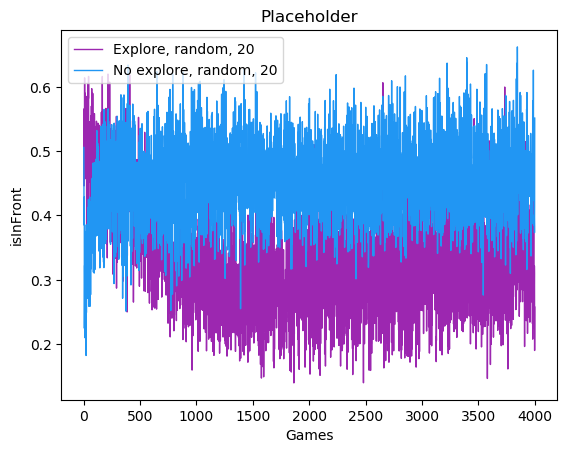
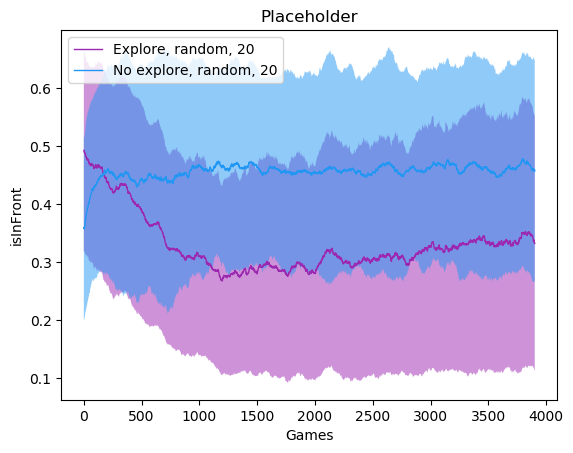
Fix

diff --git a/Analyse/analyses.py b/Analyse/analyses.py
@@ -16,6 +16,8 @@ def DataFinder(directory):
     by_row_index = df_concat.groupby(df_concat.index)
     mean = by_row_index.mean()
     sd = by_row_index.std()
+    mean.columns = ['GameN', 'gameLength', 'gameElo', 'minBase', 'dinBase', 'meandistMine', 'meandistDine', 'isInFront', 'carryEnimy', 'carryAlly']
+    sd.columns = ['GameN', 'gameLength', 'gameElo', 'minBase', 'dinBase', 'meandistMine', 'meandistDine', 'isInFront', 'carryEnimy', 'carryAlly']
     return mean, sd
 
 
@@ -40,13 +42,20 @@ class AnalysePlot():
         self.plt.xlabel('Games')
         self.plt.ylabel(feature)
         self.savepos = savepos
+        self.plt.n = 0
 
-        def varPlot(self, mean, sd, name, color, meanVar=False):
+        def varPlot(self, mean, sd=None, name='Placeholder', color=None, meanVar=False, useSD=True, runningMean=1):
+            mean = np.convolve(mean, np.ones((runningMean,)) / runningMean, mode='valid')
+            sd = np.convolve(sd, np.ones((runningMean,)) / runningMean, mode='valid')
             x = np.arange(1, len(mean) + 1)
+            if color is None:
+                color = colors[self.n]
+                self.n += 1
             self.plot(x, mean, lw=1, label=name, color=color, zorder=2)
-            if meanVar:
-                sd = sd / np.sqrt(mean.shape[2])
-            # self.fill_between(x, mean + sd, mean - sd, facecolor=color, alpha=0.5, zorder=2)
+            if sd is not None and useSD is True:
+                if meanVar:
+                    sd = sd / np.sqrt(mean.shape[2])
+                self.fill_between(x, mean + sd, mean - sd, facecolor=color, alpha=0.5, zorder=2)
             self.doPrint = True
 
         self.plt.varPlot = varPlot

diff --git a/Analyse/explorerAna.py b/Analyse/explorerAna.py
@@ -1,10 +1,10 @@
-from analyses import DataFinder, colors, AnalysePlot
+from analyses import DataFinder, AnalysePlot
 import numpy as np
 # gameLength   gameElo   minBase   dinBase   meandistMine   meandistDine   isInFront   carryEnimy   carryAlly
 
 agents = [('NN-Selfplay-20-random-lr=0.0002-K=2000', 'Explore, random, 20'), ('NN-Selfplay-20-random-lr=0.0002', 'No explore, random, 20')]
 for feature in ['gameLength', 'minBase', 'dinBase', 'meandistMine', 'meandistDine', 'isInFront', 'carryEnimy', 'carryAlly']:
     with AnalysePlot(feature=feature, title='Placeholder', savepos=f'Explorer-{feature}') as plt:
-        for i, names in enumerate(agents):
-            mean, sd = DataFinder(names[0])
-            plt.varPlot(plt, mean[' ' + feature], sd[' ' + feature], names[1], colors[i])
+        for fil, name in agents:
+            mean, sd = DataFinder(fil)
+            plt.varPlot(plt, mean[feature], sd=sd[feature], name=name, useSD=True, runningMean=100)
